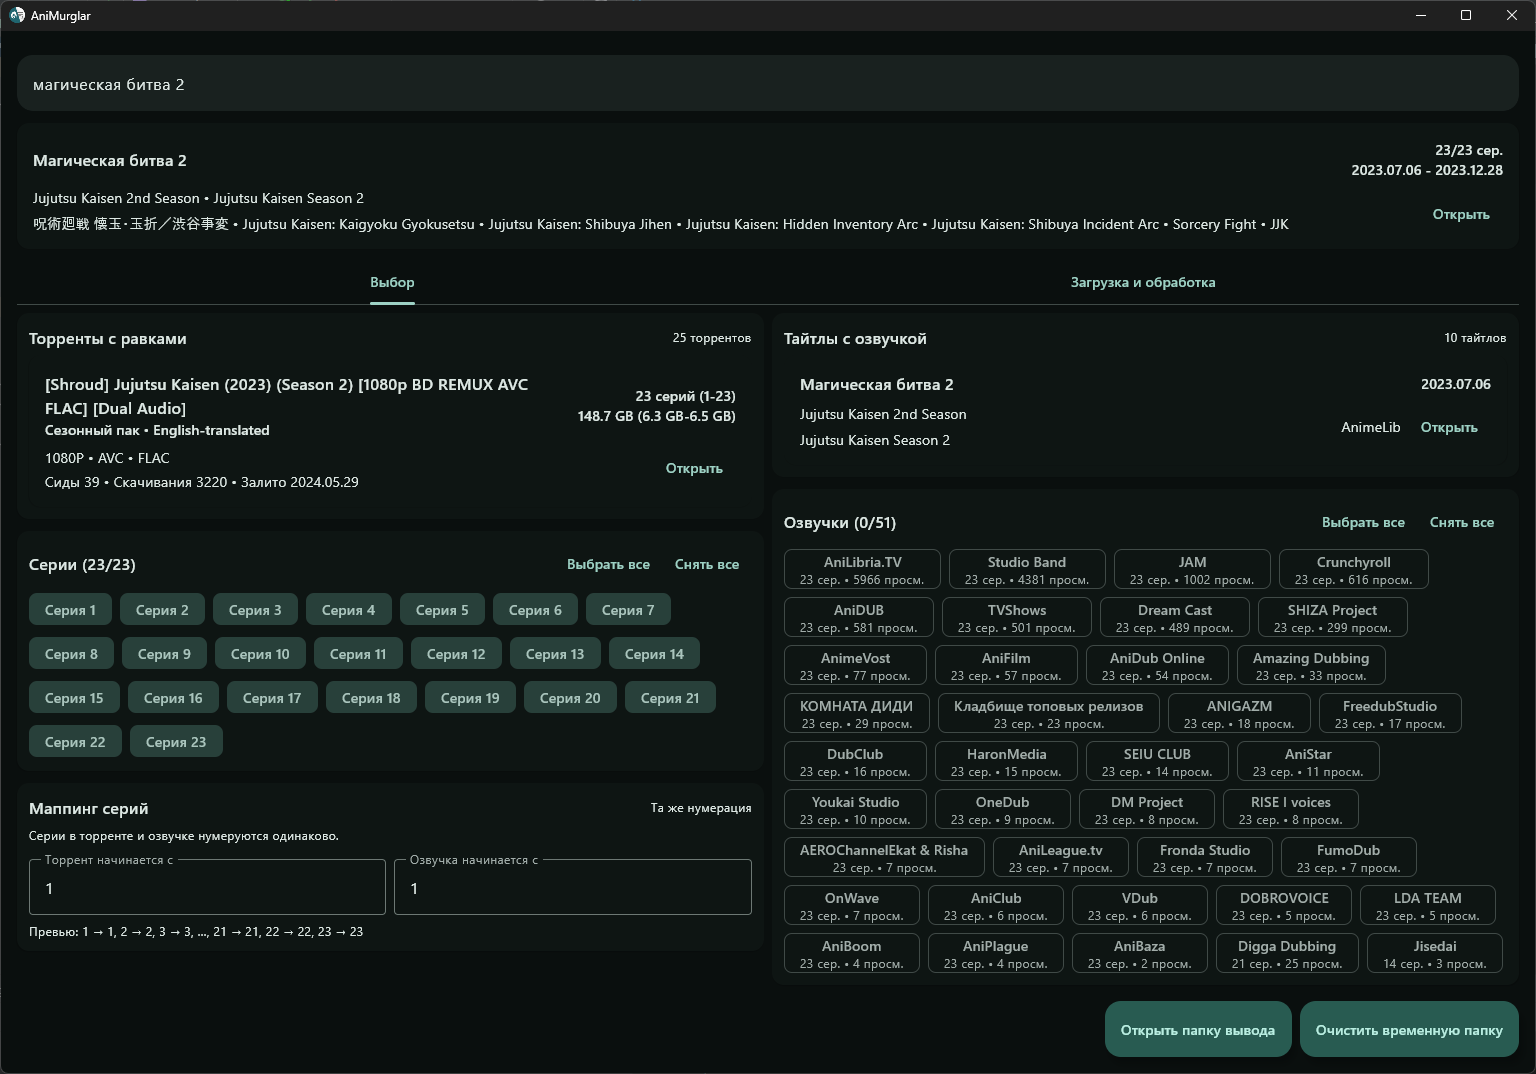
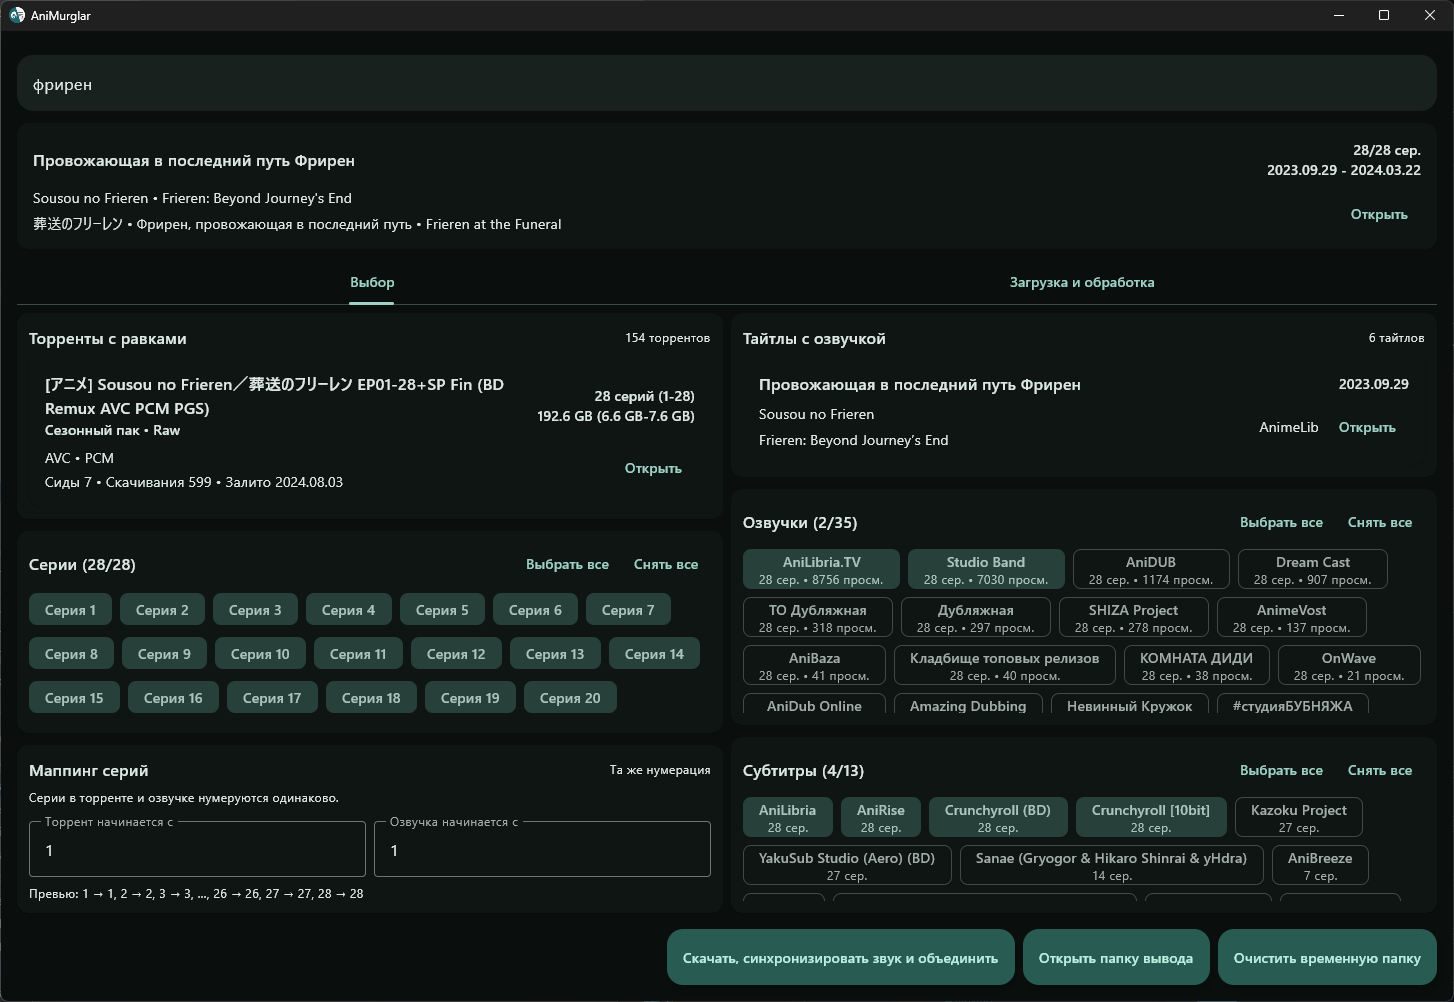
Обновление readme и сборки.

diff --git a/readme.md b/readme.md
@@ -1,19 +1,23 @@
 # AniMurglar
 
-Приложение для получения аниме с качественным видео и русскими озвучками:
+Приложение для получения аниме с качественным видео, русскими озвучками и субтитрами:
 - По названию аниме ищет его на Шикимори
 - Ищет и качает с Nyaa.si выбранную раздачу с качественным видео
 - Ищет и качает с Kodik выбранные озвучки
+- Ищет и качает с Anime365 выбранные русские субтитры
 - Синхронизирует звук
-- Объединяет все в итоговый MKV
+- Создает из полных субтитров дополнительно версии только с надписями/песнями/etc.
+- Объединяет видео, оригинальный звук, озвучки и субтитры в итоговый MKV
 
 > Для работы требуется установленный и запущенный **qbittorrent** с включенным в настройках веб-интерфейсом
 > и либо стандартным логином-паролем (_admin/adminadmin_), либо включенным пропуском авторизации для localhost клиентов.
 
+> Указать кастомную рабочую папку можно с помощью аргумента при запуске: `AniMurglar.exe <путь к папке>`
+
 ![](screenshot.png)
 
 ## Нюансы
-- Временная и итоговая папки пока не настраиваются и находятся в папке аппы, так что запускать ее лучше на SSD с хотя бы х2.5 свободного места от размера торрентов и озвучек
+- Временная и итоговая папки по умолчанию находятся в папке аппы, так что запускать ее лучше на SSD с хотя бы х2.5 свободного места от размера торрентов и озвучек
 - Т.к. все промежуточные файлы сохраняются (чтобы в случае ошибки/краша продолжить с того этапа, где остановилось), то после окончания процесса, если все ок, стоит нажать кнопку "Очистить временную папку"
 - В /temp/\<title>/processing/dubs/\<team>/analyze лежит план синхронизации + картиночки, по которым можно визуально оценить, где что пошло не так при синхронизации звука
 - Если соберетесь репортить какую-то проблему, то сразу кидайте название тайтла/сезон/ссылки на раздачи/озвучки/etc и логи из /logs в папке аппы.
